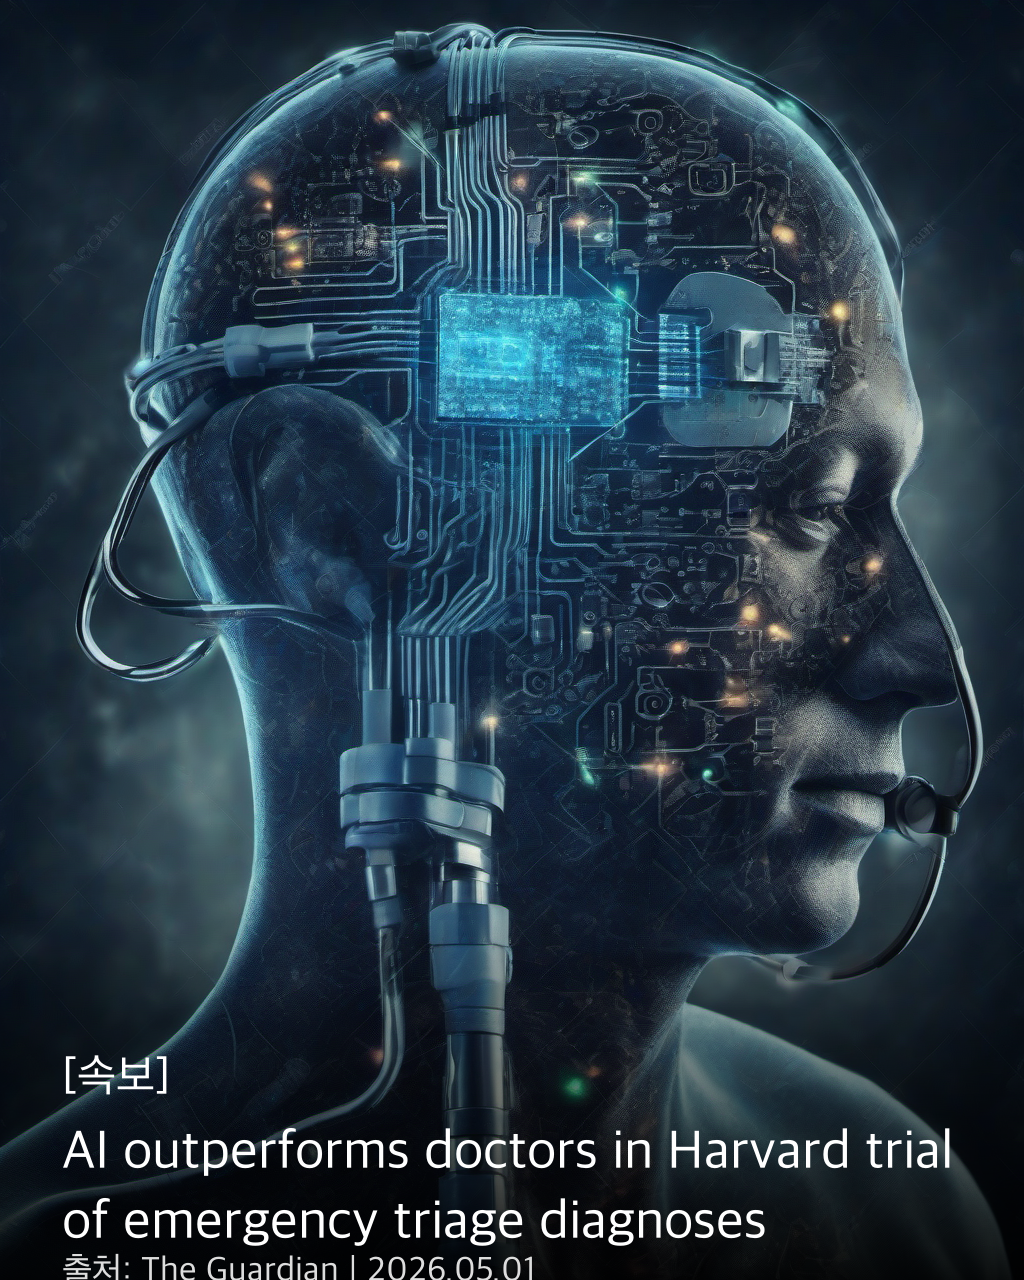
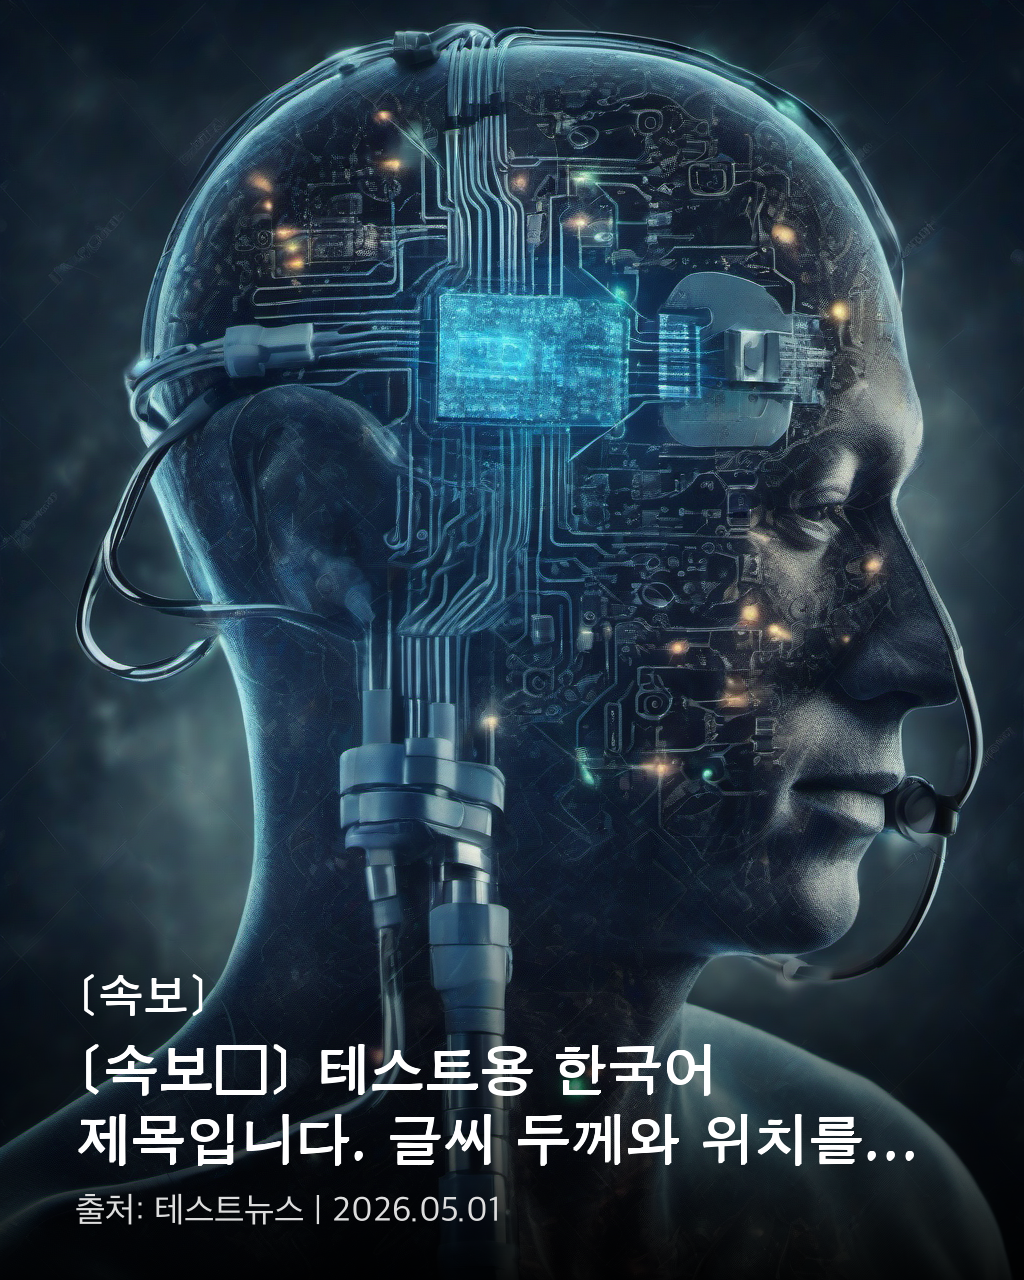
reposition overlay text and recalibrate font dimensions

Changed region(s): [[0.0625, 0.75, 0.9375, 1.0]]

diff --git a/main.py b/main.py
@@ -552,15 +552,19 @@ def generate_huggingface_images(selected_articles, run_dir):
     return selected_articles
 
 # Step 9-3. 생성된 이미지 하단에 그라데이션과 기사 텍스트를 합성합니다.
-def load_korean_font(size):
-    font_path = "/System/Library/Fonts/AppleSDGothicNeo.ttc"
+def load_korean_font(size, bold=False):
+    if bold:
+        font_path = "/System/Library/Fonts/Supplemental/AppleGothic.ttf"
+    else:
+        font_path = "/System/Library/Fonts/AppleSDGothicNeo.ttc"
+
     fallback_path = "/System/Library/Fonts/Supplemental/AppleGothic.ttf"
 
     try:
         return ImageFont.truetype(font_path, size=size)
     except OSError:
         return ImageFont.truetype(fallback_path, size=size)
-
+\
 
 def apply_bottom_gradient(image):
     image = image.convert("RGBA")
@@ -646,25 +650,29 @@ def render_news_image_overlay(article):
     image = apply_bottom_gradient(image)
     draw = ImageDraw.Draw(image)
 
-    label_font = load_korean_font(45)
-    title_font = load_korean_font(55)
+    label_font = load_korean_font(45, bold=True)
+    title_font = load_korean_font(55, bold=True)
     footer_font = load_korean_font(35)
 
     x = 75
-    label_y = 1050
-    title_y = 1120
-    footer_y = 1250
+    label_y = 970
+    title_y = 1040
+    footer_y = 1190
     max_width = image.size[0] - (x * 2)
 
     label = "[속보]"
     title = extract_poster_title(article)
     footer = f"출처: {article.get('source', '')} | {datetime.now().strftime('%Y.%m.%d')}"
 
-    draw.text((x, label_y), label, fill="#FFFFFF", font=label_font)
+    for dx, dy in [(0, 0), (1, 0), (0, 1), (1, 1)]:
+        draw.text((x + dx, label_y + dy), label, fill="#FFFFFF", font=label_font)
 
     title_lines = wrap_text(draw, title, title_font, max_width=max_width, max_lines=2)
     for idx, line in enumerate(title_lines):
-        draw.text((x, title_y + (idx * 70)), line, fill="#FFFFFF", font=title_font)
+        y = title_y + (idx * 70)
+
+        for dx, dy in [(0, 0), (1, 0), (0, 1), (1, 1), (2, 0), (0, 2)]:
+            draw.text((x + dx, y + dy), line, fill="#FFFFFF", font=title_font)
 
     draw.text((x, footer_y), footer, fill=(221, 221, 221, 215), font=footer_font)
 
